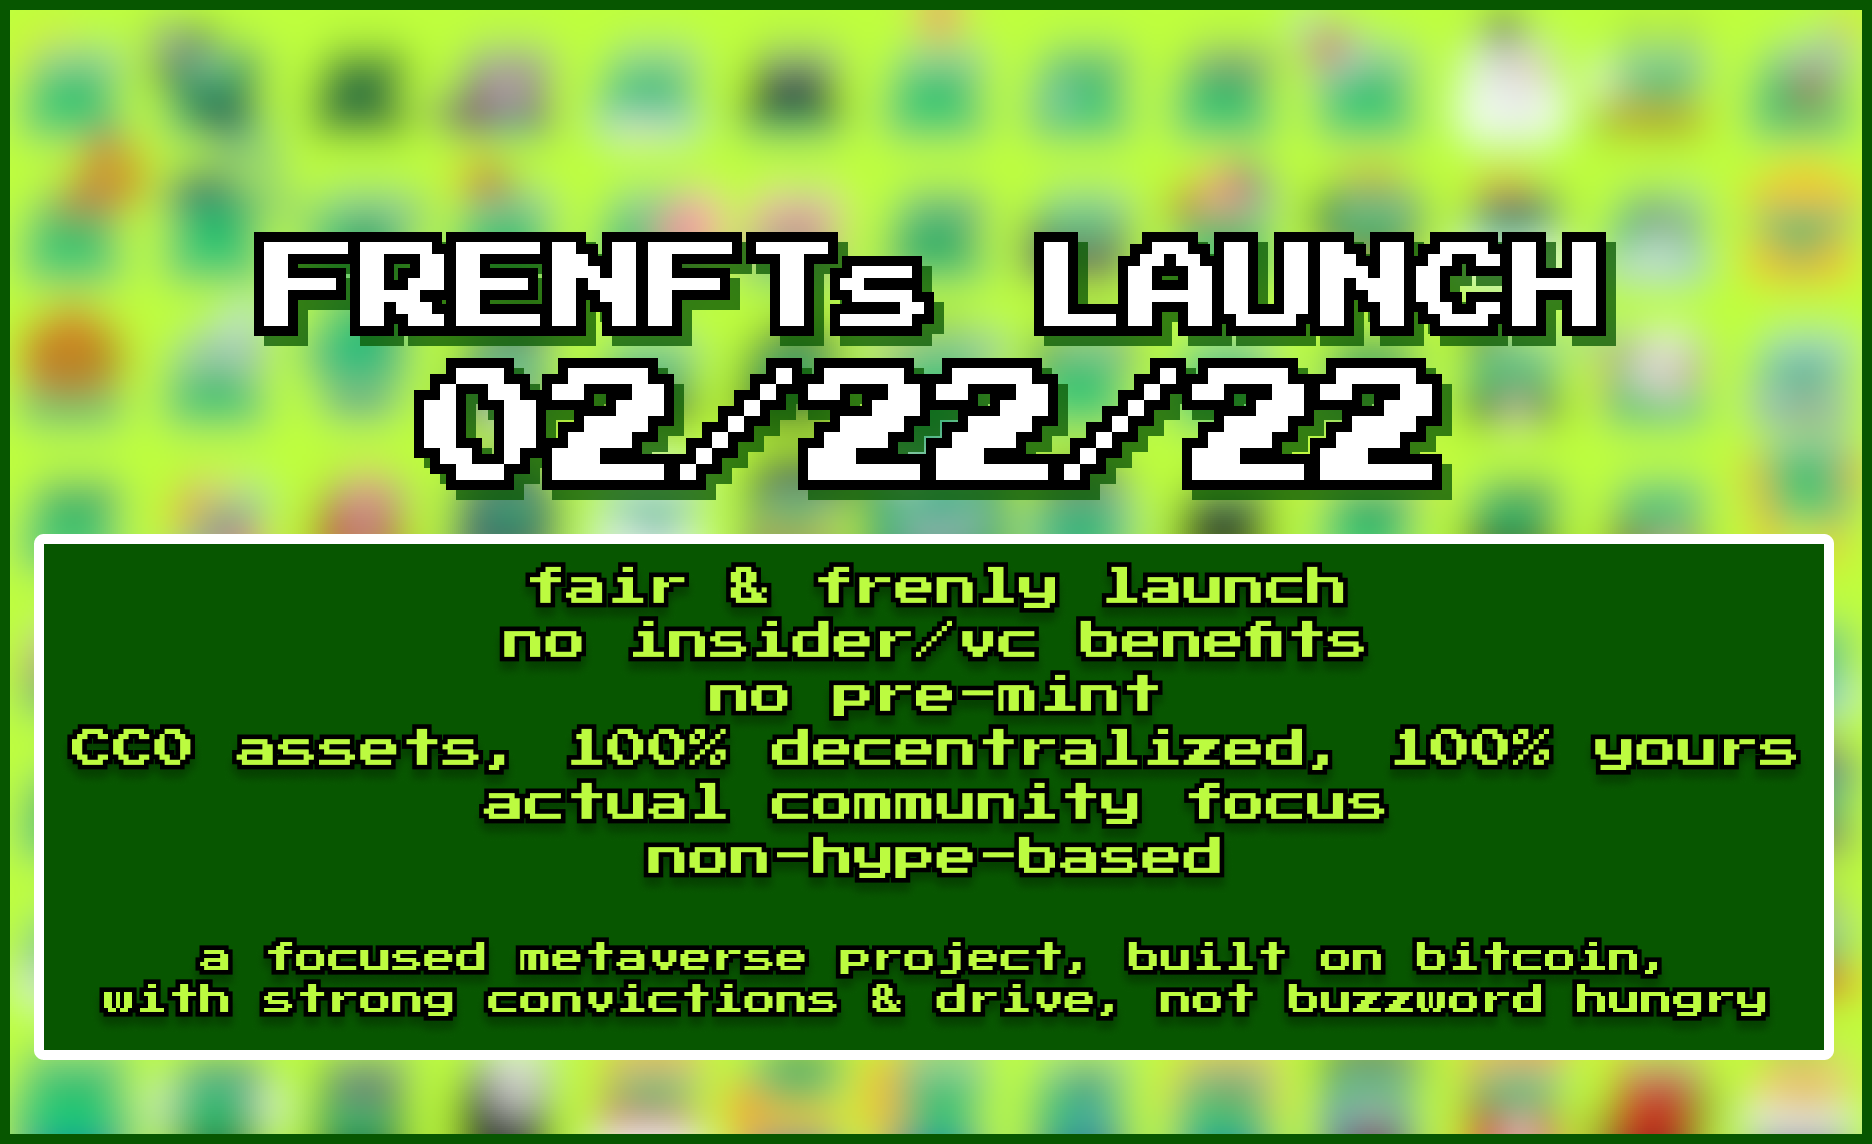
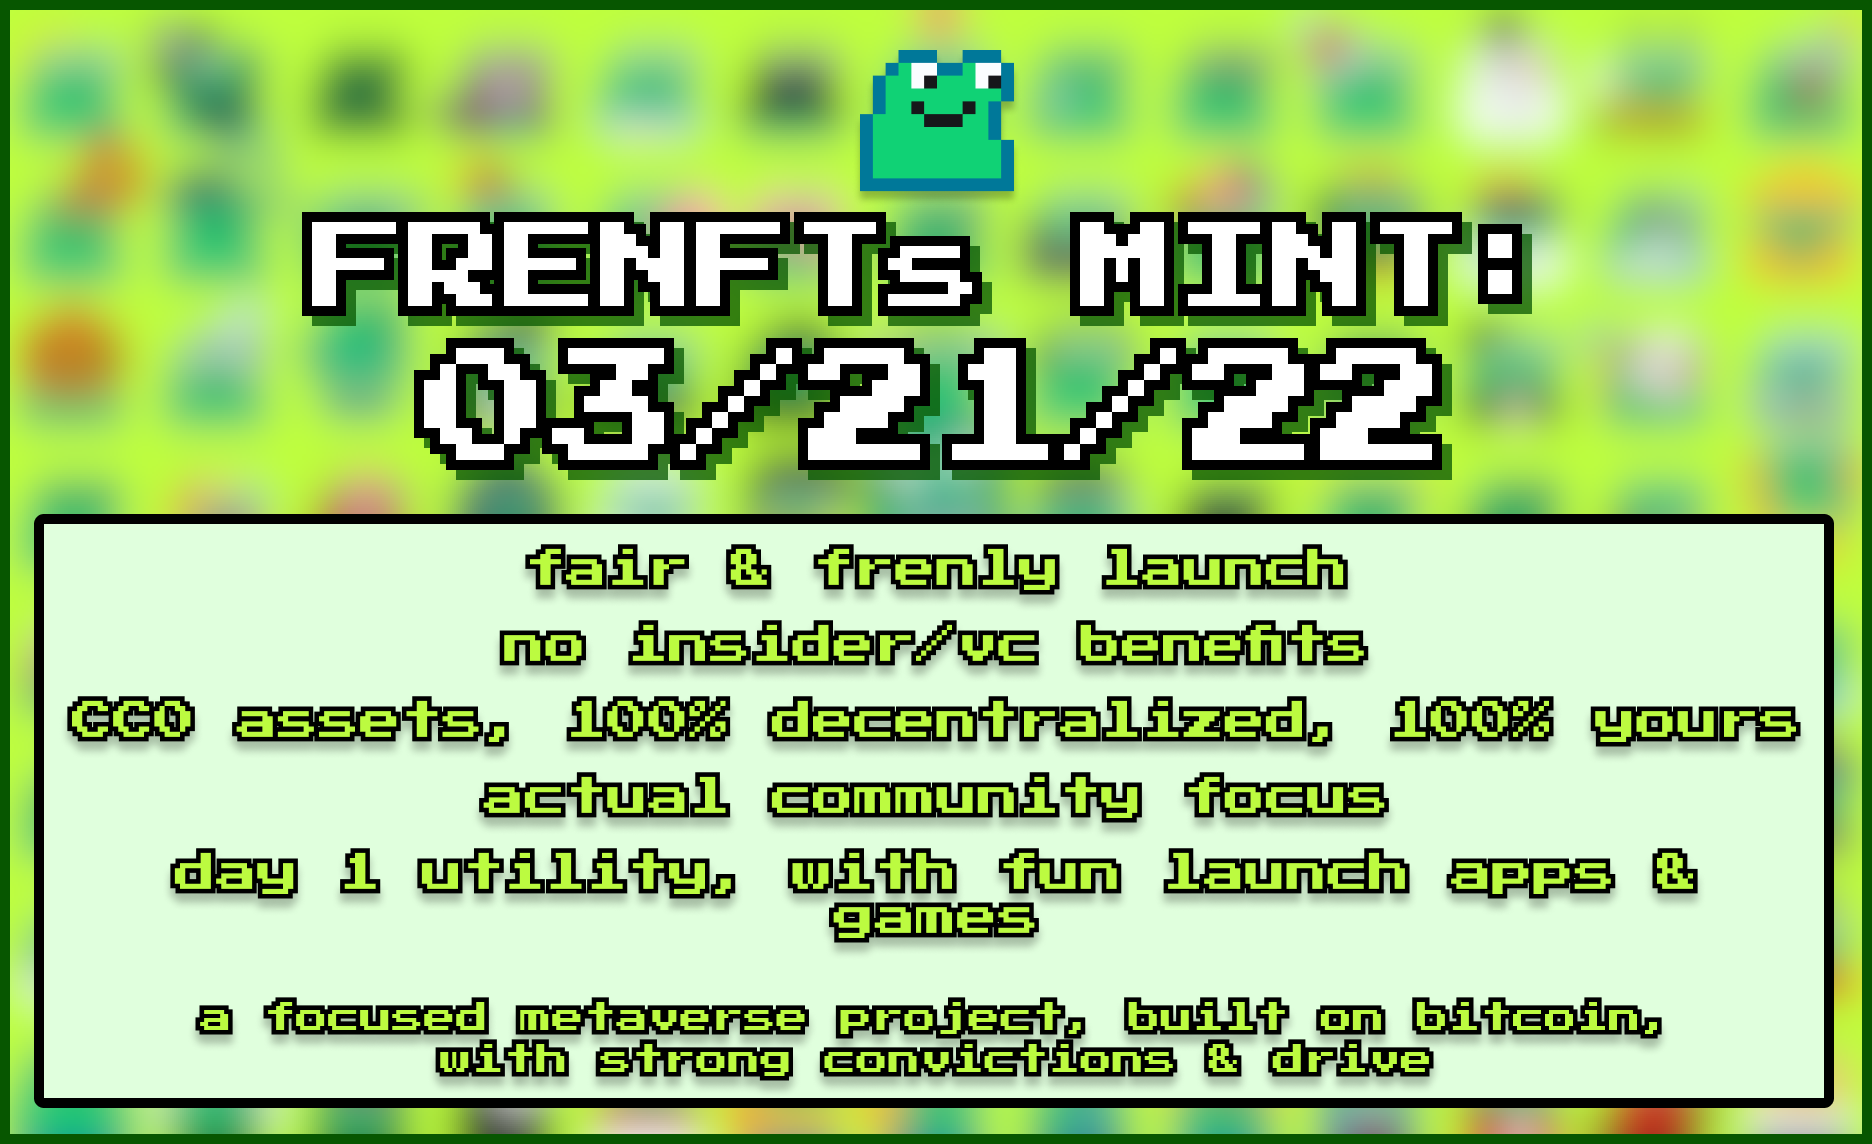
NEW SHIT

diff --git a/index.html b/index.html
@@ -30,21 +30,29 @@
     
     <meta name=”twitter:image” content="https://www.frenft.world/Assets/teaser.png" />
     <meta property="og:image" content="https://www.frenft.world/Assets/teaser.png" />
-    <meta property="twitter:image:alt" content="FRENFTs, a fair & frenly metaverse project, built on bitcoin, launching February 22nd, 2022" />
-    <meta property="og:image:alt" content="FRENFTs, a fair & frenly metaverse project, built on bitcoin, launching February 22nd, 2022" />
+    <meta property="twitter:image:alt" content="FRENFTs, a fair & frenly metaverse project, built on bitcoin, launching March 21st, 2022" />
+    <meta property="og:image:alt" content="FRENFTs, a fair & frenly metaverse project, built on bitcoin, launching March 21st, 2022" />
 
     <script defer data-domain="frenft.world" src="https://plausible.io/js/plausible.js"></script>
 </head>
 <body>
-    <img src="Assets/banner.png" width="100%" alt="FRENFT banner - launches February 22nd" />
+    <img class="banner" src="Assets/banner.png" width="100%" alt="FRENFT banner - launches March 21st" />
+
+    <div class="nes-container with-title navigation">
+        <p class="title">NAVIGATION</p>
+        <a id="ETHOS-link" href="#ETHOS" class="active-section">Ethos</a>
+        <a id="DNA-link" href="#DNA" class="nonactive-section">DNA</a>
+        <a id="FAQ-link" href="#FAQ" class="nonactive-section">FAQ</a>
+        <a id="ROADMAP-link" href="#ROADMAP" class="nonactive-section">Roadmap</a>
+    </div>
 
     <div class="wrapper">
-        <div class="nes-container with-title is-centered">
+        <div class="nes-container with-title is-centered anchor_tags" id="ETHOS">
             <p class="title">FRENFTs - A Frenly Metaverse Built On Bitcoin</p>
             <p>
                 The worst thing of the otherwise very fun crypto world, is projects that adopt buzzwords instead of strong convictions. People that peddle hype over fundamentals.
                 <br><br>
-                That's why, right off the bat, I'm going to break down what exactly FRENFT is, and what we're aiming to achieve:
+                That's why, right off the bat, I'm going to break down exactly what FRENFT is, and what we're aiming to achieve:
                 <div class="lists">
                     <ul class="nes-list is-disc">
                         <li>FRENFTs is a community-focused metaverse project</li>
@@ -56,9 +64,7 @@
                 <br><br>
                 The ultimate goal of FRENFTs is to show the power of community-creativity. Your FRENFT will be used in a myriad of dapps & activities.
                 <br>
-                Games, chat rooms, avatars, 3D events, trading options, DeFi utility, club memberships, etc.
-                <br>
-                The only limit is what people choose to build.
+                Games, chat rooms, avatars, 3D events, trading options, DeFi utility, club memberships, etc. The only limit is what people choose to build.
                 <br><br>
                 There is no VC firm behind this project, it's just a random <a href="https://twitter.com/haxbtc" target="_blank" rel="noopener noreferrer">FREN</a> who gets the ball rolling, and then blends in with the rest of the community. No insider benefits, no rugpull potential, no shenanigans (<em>other than shitposting on twitter</em>).
             </p>
@@ -83,12 +89,19 @@
 
         <div style="height: 50px;"></div>
 
-        <section class="nes-container">
+        <div class="anchor_tags" id="DNA">
+            <img src="Assets/dna.png" width="100%" alt="FRENFT ROADMAP" />
+        </div>
+
+        <div style="height: 50px;"></div>
+
+        <section class="nes-container anchor_tags" id="FAQ">
             <section class="message-list">
 
                 <section class="message -right">
                     <div class="nes-balloon from-right">
                         <p>Ok, so... What do we get when minting?</p>
+                        <!-- <a class="expand-bubble">+</a> -->
                     </div>
                     <img src="Assets/fren-flipped.png" />
                 </section>
@@ -113,6 +126,8 @@
                         <p>The base NFT is pixel art, because the goal is to allow for <u>ultimate customization, modability, and modification</u>.<br><br>Using a "lowrez" pixel art sprite allows future developers to modify these NFTs to be trading cards, 3D models, text-based companions, VR animations, and much much more. Keeping the base art simple, allows for <u>maxium building possibility</u>, while still being cute to begin with :3</p>
                     </div>
                 </section>
+
+                <br>
 
                 <section class="message -right">
                     <div class="nes-balloon from-right">
@@ -141,6 +156,8 @@
                         <p>This is smartly done using a "carrot & stick" approach. People who participate in this community (<em>building games, making apps, sharing tutorials, onboarding new users</em>) will earn a <u>companion token which</u>, among other utility, will serve as a <u>governance token in a DAO</u>.<br><br>This DAO will grant funding to new project proposals (<em>that everyone is free to pitch & vote on</em>), guide marketing efforts, and host interactive events (<em>imagine a colosseum full of frens watching you have pokemon-like card battles with someone from around the world</em>).<br><br>In addition to community efforts, I'm personally lining up partnership with other projects & teams, as well as building my own experiences that will help make FRENFTs an attractive & fun web3 adventure for everyone to participate in.<br><br>More attention == More incentives == More frens == More fun.</p>
                     </div>
                 </section>
+
+                <br>
 
                 <section class="message -right">
                     <div class="nes-balloon from-right">
@@ -195,11 +212,24 @@
             </section>
         </section>
 
+        <div class="anchor_tags" id="ROADMAP">
+            <img src="Assets/roadmap.png" width="100%" alt="FRENFT ROADMAP" />
+        </div>
+
+        <div class="nes-container is-rounded is-dark">
+            <p>
+                <strong>UTILITY & FUN, DAY ONE</strong>
+                <br><br>
+                <em>PFP NFT drops are cute, but we believe it's time to start seeing more from this scene. FRENFTs will be usable in a virtual world (think of it like a 3D chat room) <strong>right on the mint day</strong>. Additionally, we already have several different games in the works that will make owning your FRENFTs fun, as well as useful.</em>
+                <br><br>
+                <em>Games, DeFi, Social Experiences. We don't just have rough ideas in mind, we have actual code we've been working on already. FRENFTs aims to be a trendsetter for utility & enjoyability in the NFT space.</em>
+            </p>
+        </div>
+
         <footer>
-            <blockquote class="twitter-tweet" data-theme="light"><p lang="en" dir="ltr">I&#39;m making a mini NFT metaverse on <a href="https://twitter.com/hashtag/Bitcoin?src=hash&amp;ref_src=twsrc%5Etfw">#Bitcoin</a><br><br>Small scale first drop, low entry price, CC0 art assets<br><br>Creating a side token that gets airdropped to active members &amp; builders, which will then form a DAO<br><br>This will be 100% focused on creativity &amp; good vibes<br><br>Frens Find Fun</p>&mdash; HAӾ.₿TC (@haxBTC) <a href="https://twitter.com/haxBTC/status/1481782908960526341?ref_src=twsrc%5Etfw">January 14, 2022</a></blockquote> <script async src="https://platform.twitter.com/widgets.js" charset="utf-8"></script>
-            <a href="https://twitter.com/intent/tweet?text=let%27s%20be%20frens%20%F0%9F%90%B8%F0%9F%92%9A&url=https%3A%2F%2Ffrenft.world&hashtags=stx%2Cbtc&related=haxbtc%3Afren"><img src="Assets/teaser.png" width="100%" /></a>
+            <a href="https://twitter.com/intent/tweet?text=let%27s%20be%20frens%20%F0%9F%90%B8%F0%9F%92%9A&url=https%3A%2F%2Ffrenft.world&hashtags=stx%2Cbtc&related=haxbtc%3Afren"><img src="Assets/teaser.png" width="100%" alt="fair & frenly launch, no insider/vc benefits, no pre-mint, CC0 assets, 100% decentralized, 100% yours, actual community focus, a focused metaverse project, built on bitcoin, with strong convictions & drive" /></a>
             <br>
-            <button onclick="window.location.href='https://twitter.com/haxbtc';" type="button" class="nes-btn is-success">FRENFTs Opens Minting On 02/22/22<br>Follow @HAX.BTC To Stay Updated!</button>
+            <button onclick="window.location.href='https://twitter.com/haxbtc';" type="button" class="nes-btn is-success">FRENFTs Opens Minting On 03/21/22<br>Follow @HAX.BTC To Stay Updated!</button>
             <br>
             <button onclick="window.location.href='https://www.coingecko.com/en/coins/stacks#markets';" type="button" class="nes-btn is-primary">Stock up on Stacks to get ready</button>
             <br><br>
@@ -210,5 +240,30 @@
             </div>
         </footer>
     </div>
+
+    <script src="https://code.jquery.com/jquery-3.6.0.min.js" integrity="sha256-/xUj+3OJU5yExlq6GSYGSHk7tPXikynS7ogEvDej/m4=" crossorigin="anonymous"></script>
+
+    <script>
+        $(function () {
+            var currentHash = "ETHOS"
+            $(document).scroll(function () {
+                $('.anchor_tags').each(function () {
+                    var top = window.pageYOffset;
+                    var distance = top - $(this).offset().top;
+                    var hash = $(this).attr('id');
+                    // 30 is an arbitrary padding choice, 
+                    // if you want a precise check then use distance===0
+                    if (distance < 30 && distance > -30 && currentHash != hash) {
+                        $("#" + currentHash + "-link").removeClass('active-section')
+                        $("#" + currentHash + "-link").addClass('nonactive-section')
+                        $("#" + hash + "-link").removeClass('nonactive-section')
+                        $("#" + hash + "-link").addClass('active-section')
+                        window.location.hash = (hash);
+                        currentHash = hash;
+                    }
+                });
+            });
+        });
+    </script>
 </body>
 </html>

diff --git a/style.css b/style.css
@@ -10,7 +10,7 @@ body {
     justify-items: center;
 }
 
-img {
+.banner, .message img {
     image-rendering: pixelated;
 }
 
@@ -23,8 +23,47 @@ a:hover, a:visited {
     color: #10d275;
 }
 
+.expand-bubble {
+    font-size: 1.5em;
+    float: left;
+    margin-right: 0;
+    color: #10d275 !important;
+}
+
+.navigation {
+    left: 10px;
+    top: 10px;
+    right: auto;
+    bottom: auto;
+    position: fixed;
+    box-shadow: 10px 10px #10d275;
+    z-index: 100;
+}
+
 .wrapper {
     padding: 22px;
+}
+
+.banner {
+    margin-top: 115px;
+}
+
+.active-section {
+    color: #10d275 !important;
+}
+
+.nonactive-section {
+    color: #aaa !important;
+}
+
+@media only screen and (min-width: 900px) {
+    .banner {
+        margin-top: 0px;
+    }
+
+    .wrapper {
+        padding: 44px;
+    }
 }
 
 .nes-container {
